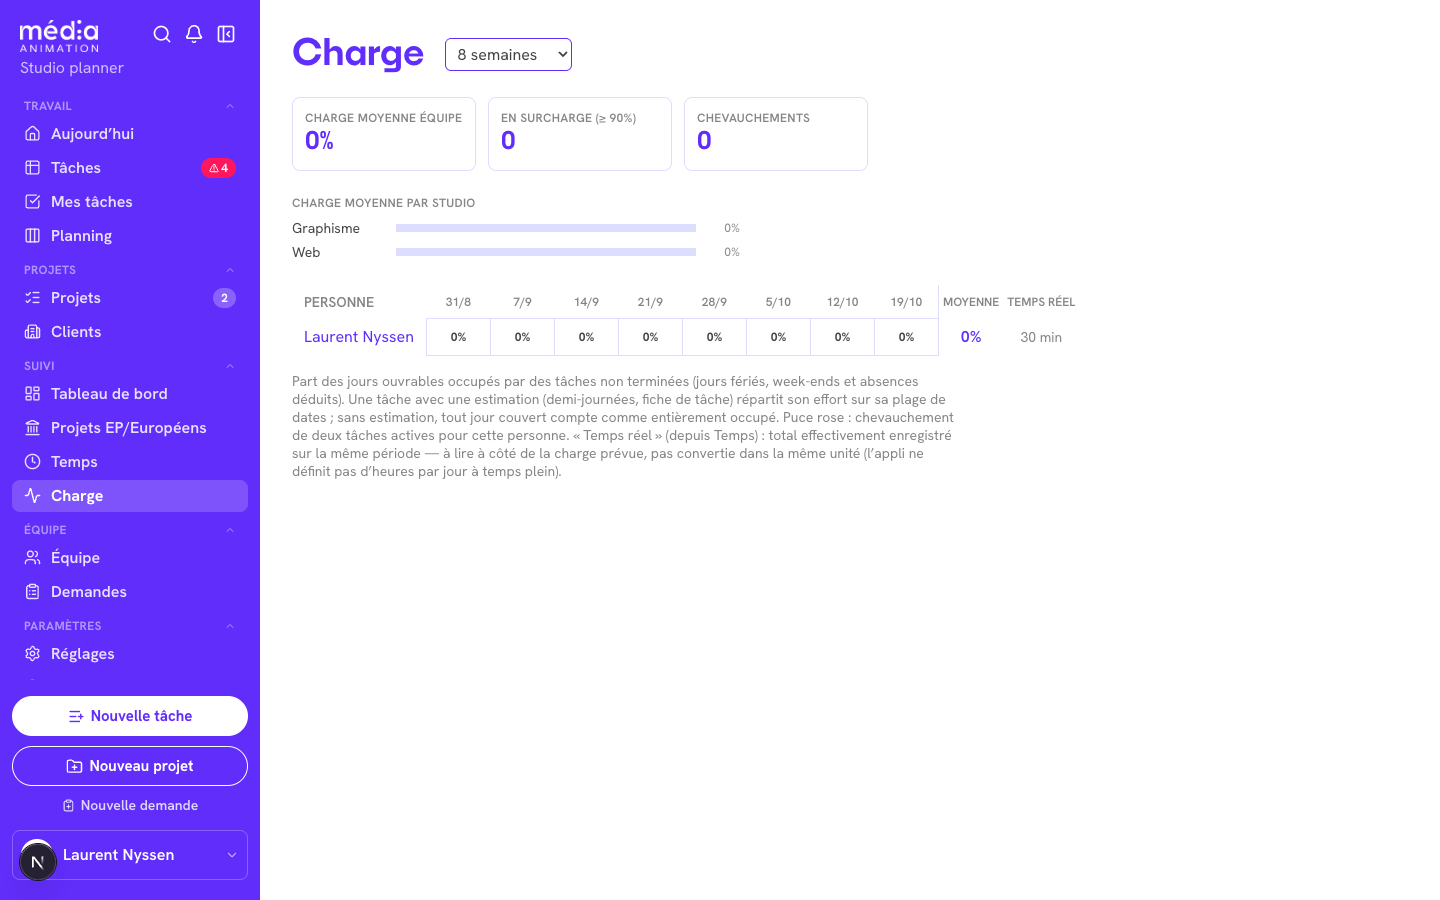
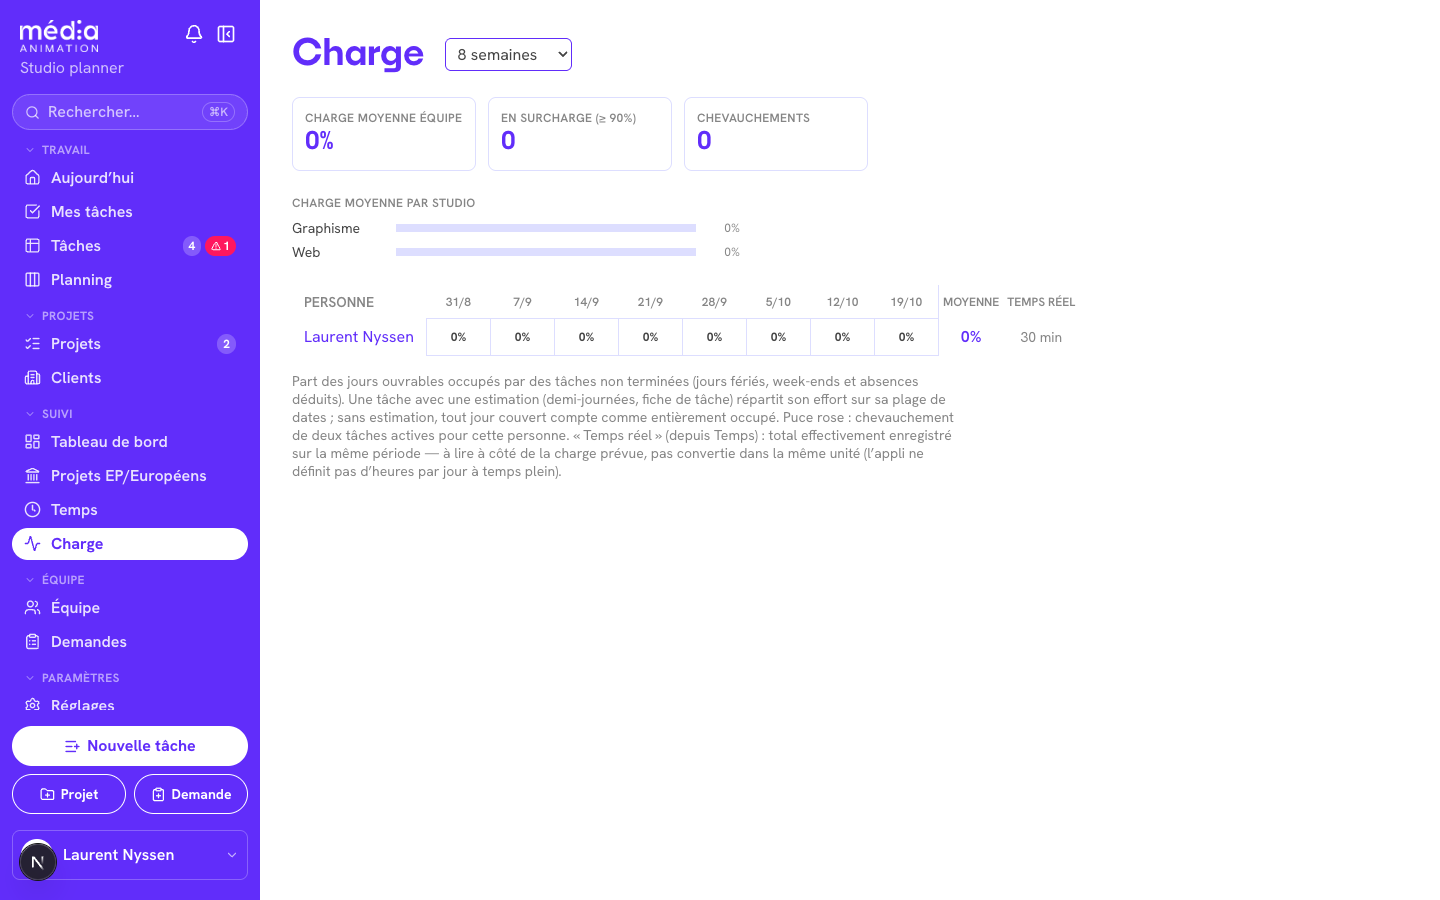
Met la documentation à jour : puces du menu, Temps, création au glisser
Suit les trois passes précédentes :
- comment lire les puces du menu (compte neutre et alerte rouge côte à
  côte, remontée des alertes sur un groupe replié) ;
- Temps décrit dans son nouvel ordre de lecture (Ajouter du temps, puis
  Votre temps avec son total et ses trois affichages) ;
- création d'une tâche en tirant une plage dans Semaine et Gantt ;
- la recherche est un champ, plus une icône ; Projets ouvre en Tableau.

Les 18 captures sont régénérées : elles montrent toutes la barre
latérale, qui a changé.

diff --git a/src/app/(app)/aide/page.tsx b/src/app/(app)/aide/page.tsx
@@ -214,12 +214,28 @@ export default function AidePage() {
             <li><strong>Semaine</strong> — grille jour par jour, une ligne par personne.</li>
             <li><strong>Gantt</strong> — barres sur une frise, dépendances affichées en trait reliant deux tâches, nombre de semaines réglable.</li>
           </Ul>
+          <H3>Créer une tâche en tirant sur la grille</H3>
+          <Shot src="/docs/planning-semaine.png" alt="Planning en vue Semaine, une ligne par personne" />
+          <P>
+            Inutile de re-saisir ce que l’écran affiche déjà : le geste porte la personne (ou le projet) et les dates.
+          </P>
+          <Ul>
+            <li>
+              <strong>Semaine</strong> — glisser sur les jours d’une ligne (ou cliquer une case vide) ouvre la création
+              déjà attribuée à cette personne, du premier au dernier jour couvert.
+            </li>
+            <li>
+              <strong>Gantt</strong> — glisser sur une zone vide de la frise ouvre la création sur ces dates, rattachée
+              au projet de la ligne (ou à la personne, si l’affichage est regroupé par personne).
+            </li>
+            <li>Dans les deux cas, tout reste modifiable dans le formulaire avant d’enregistrer.</li>
+          </Ul>
         </section>
 
         <section className="mb-8">
           <H2 id="projets">Projets</H2>
           <Shot src="/docs/projets.png" alt="Liste des projets en vue Tableau" />
-          <P>Vue Cartes (regroupées par client) ou Tableau, avec un onglet Archives séparé.</P>
+          <P>Vue Tableau par défaut, ou Cartes (regroupées par client), avec un onglet Archives séparé.</P>
           <H3>Fiche projet</H3>
           <Ul>
             <li>Nom, code, client (existant ou créé à la volée), type de client (interne/externe), type de projet (Externe / Équipe éducative / Européen / Fonctionnement / Éducation permanente), studios concernés.</li>
@@ -284,10 +300,19 @@ export default function AidePage() {
 
         <section className="mb-8">
           <H2 id="temps">Temps</H2>
-          <Shot src="/docs/temps.png" alt="Page Temps : écritures par jour ou par semaine" />
+          <Shot src="/docs/temps.png" alt="Page Temps : ajout de temps en haut, puis votre temps déjà enregistré" />
           <P>
-            Vos écritures de temps, par jour ou par semaine. Une écriture peut être liée à une tâche précise ou
-            directement à un projet (temps non affecté à une tâche particulière).
+            La page se lit en deux temps : <strong>Ajouter du temps</strong> en haut (minuteur ou saisie manuelle),
+            puis <strong>Votre temps</strong> — ce qui est déjà enregistré, avec le total à côté du titre.
+          </P>
+          <Ul>
+            <li><strong>Calendrier</strong> — la semaine heure par heure, affichage par défaut.</li>
+            <li><strong>Liste</strong> — les écritures groupées par jour, avec le total de chaque journée.</li>
+            <li><strong>Par projet</strong> — la répartition du temps, du projet le plus consommateur au moins.</li>
+          </Ul>
+          <P>
+            Une écriture peut être liée à une tâche précise (<em>Tâche planifiée</em>) ou directement à un projet, voire
+            à aucun (<em>Autre activité</em> — réunion, suivi de courriels, aide à un collègue…).
           </P>
           <P>
             Si la tâche choisie a plusieurs studios, un champ « Studio (pour cette écriture) » apparaît pour préciser
@@ -379,8 +404,8 @@ export default function AidePage() {
           <H2 id="recherche">Recherche et palette de commandes</H2>
           <Shot src="/docs/recherche.png" alt="Résultats de recherche : tâches, commentaires, projets" />
           <P>
-            L’icône loupe (barre latérale) ouvre une recherche rapide : tâches (titre et description), commentaires
-            (avec un extrait du texte trouvé), projets (nom et code), clients.
+            Le champ « Rechercher… » (en haut de la barre latérale) ouvre une recherche rapide : tâches (titre et
+            description), commentaires (avec un extrait du texte trouvé), projets (nom et code), clients.
           </P>
           <Shot src="/docs/palette.png" alt="Palette de commandes ouverte, avec actions rapides" />
           <P>
@@ -417,6 +442,20 @@ export default function AidePage() {
             <li>Changer son mot de passe : menu du compte (en bas de la barre latérale) → Mot de passe.</li>
             <li>Thème clair/sombre : bascule dans la barre latérale.</li>
             <li>Ordre du menu de gauche : personnalisable par glisser-déposer (menu du compte → Réorganiser le menu).</li>
+          </Ul>
+          <H3>Lire les puces du menu de gauche</H3>
+          <Ul>
+            <li>
+              <strong>Puce neutre</strong> — un simple compte : tâches ou projets en cours, tâches qui vous sont
+              attribuées, demandes en attente.
+            </li>
+            <li>
+              <strong>Puce rouge ⚠</strong> — le sous-ensemble qui pose problème dans ce compte : tâches en retard,
+              projets au-delà de leur budget de temps. Les deux puces se lisent côte à côte : « 12 ⚠3 » = douze tâches
+              en cours, dont trois en retard.
+            </li>
+            <li>Replier un groupe ne masque pas ses alertes : elles remontent sur l’intitulé du groupe.</li>
+            <li>Le détail de chaque puce s’affiche en survolant l’entrée du menu.</li>
           </Ul>
           <Steps title="Mot de passe oublié">
             <li>Sur l’écran de connexion, cliquer « Mot de passe oublié ? ».</li>
